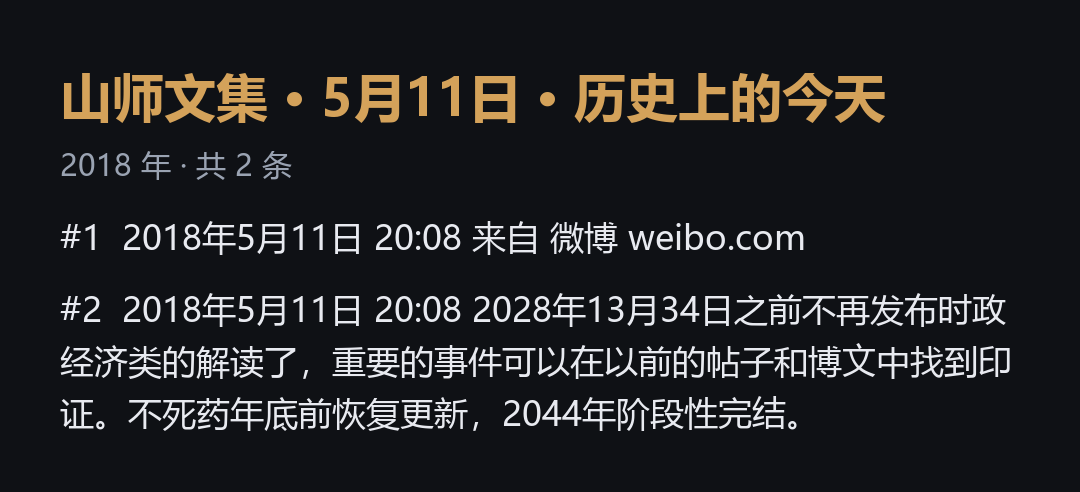
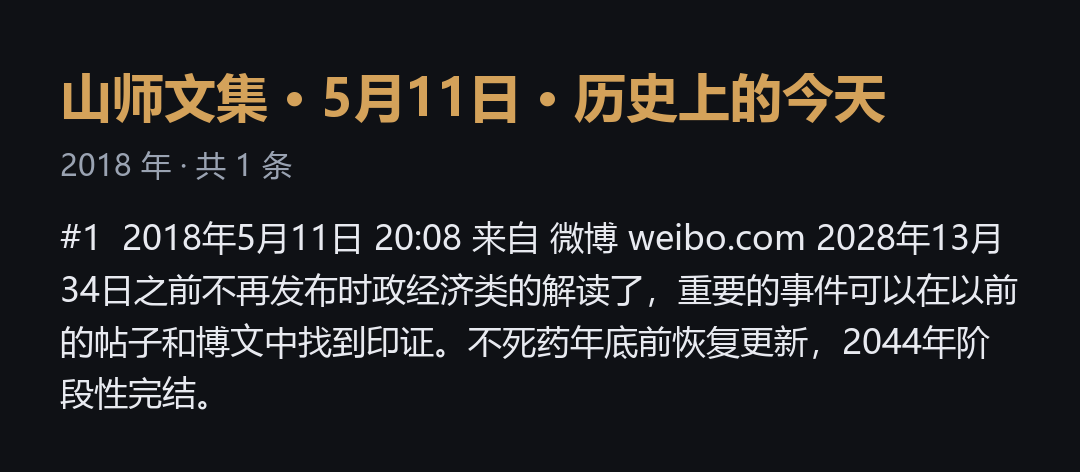
数据源换为 shanshi_文集26.11.5.xlsx；修正 2015-11-06 20:33「剁手党」条目归属；补回 05-11 被清空的正文

diff --git a/parse_data.py b/parse_data.py
@@ -10,18 +10,56 @@
 这样网页加载「历史上的今天」只需请求一个几十 KB 的小文件，秒开。
 """
 import openpyxl
+import glob
 import json
 import os
+import re
 from datetime import datetime
 from collections import defaultdict, OrderedDict
 
+# 源表按「改一次存一个新文件名」（shanshi_文集26.11.5.xlsx → 26.11.6 …），
+# 这里取 Downloads 里最新的一个，避免每次手改路径。
+SRC_PATTERNS = [
+    r"D:/ext.lingzicheng1/Downloads/shanshi_文集*.xlsx",
+    r"D:/ext.lingzicheng1/Downloads/shanshi_cleaned*.xlsx",
+]
 SRC = r"D:/ext.lingzicheng1/Downloads/shanshi_cleaned.xlsx"
 OUT_DIR = os.path.join(os.path.dirname(os.path.abspath(__file__)), "data")
 os.makedirs(OUT_DIR, exist_ok=True)
 
+# 正文开头的日期（微博原文 / 天涯楼层）
+RE_TEXT_DATE = re.compile(r"^\s*(\d{4})年(\d{1,2})月(\d{1,2})日")
+RE_FLOOR_DATE = re.compile(r"日期:\s*(\d{4})-(\d{1,2})-(\d{1,2})")
+
+
+def find_src():
+    """取本地最新的源表；找不到就退回写死路径。"""
+    cands = []
+    for pat in SRC_PATTERNS:
+        cands.extend(glob.glob(pat))
+    if not cands:
+        return SRC
+    return max(cands, key=os.path.getmtime)
+
+
+def reconcile_date(d, c):
+    """Date 列与正文日期不一致时以正文为准（源表手改常漏 Date 列）。"""
+    m = RE_TEXT_DATE.match(c) or RE_FLOOR_DATE.search(c)
+    if not m:
+        return d
+    try:
+        td = datetime(int(m.group(1)), int(m.group(2)), int(m.group(3))).date()
+    except ValueError:
+        return d
+    if td != d:
+        print(f"[日期校正] Date={d} -> 正文={td} | {c[:40]}...")
+    return td
+
 
 def build():
-    wb = openpyxl.load_workbook(SRC, read_only=True, data_only=True)
+    src = find_src()
+    print(f"源表: {src}")
+    wb = openpyxl.load_workbook(src, read_only=True, data_only=True)
     ws = wb["shanshi_cleaned"]
     rows = list(ws.iter_rows(values_only=True))[1:]
 
@@ -30,7 +68,8 @@ def build():
     for r in rows:
         d, c = r[0], r[1]
         if isinstance(d, datetime) and isinstance(c, str) and c.strip():
-            clean.append((d.date(), c.strip()))
+            c = c.strip()
+            clean.append((reconcile_date(d.date(), c), c))
         else:
             bad.append((str(d), c))
 

diff --git a/archive/05-11.md b/archive/05-11.md
@@ -1,0 +1,101 @@
+# 山师文集 · 5月11日 · 历史上的今天
+
+## 2015 年
+
+2015年5月11日 00:10 来自 微博 weibo.com 扶桑的黑社会，讲侠义，不过和汉唐的黑社会相比，差了不止十万八千里，泥云之别，大唐黑社会主要成员是游侠，游侠阶层，处理问题有理有据，杀起恶人来万军莫敌，深受百姓爱戴，今人所熟知的李世民，其实是游侠出身，武艺高强，更多的游侠是不为人所知的，经常去边塞执行任务，相当于现在的007。
+
+2015年5月11日 00:27 来自 微博 weibo.com 爱江山还是爱美人，这道难题没有难住李世民，李选择了江山，五毛娘媚惑了李十二年，直到李死，五毛娘也只是副科级才人，被安排去尼姑庵过离退休生活。为什么李不杀五，电视里君君臣臣没事跪下磕头的重口味，是满清的做派，奴隶制社会，大唐法制社会，皇帝你敢无故杀姑娘，长安百姓就敢把你皇宫拆了。
+
+2015年5月11日 09:13 来自 微博 weibo.com 扶桑有些饭馆，是去过大唐的留学生开的，从大唐一直营业到今天，口味也没有太大的改变，一如既往的难吃。扶桑人喜欢排队，不为天下先的一种态度，开车很少有并线的，车喇叭，很多司机几十年都没有按过了。你步行，有行人或者自行车从后方超越你，是要对你道歉的。诸多礼数都是当年长安人一直恪守的。
+
+2015年5月11日 09:44 来自 微博 weibo.com 开车不并线超车，是一种礼貌，体现着修养，表达出你对路况和到达时间有充分的准备，成熟的体现，其实如果大部分司机不超车，道路的整体通行效率是最高的。但是有人会抱怨如果不并线超车，要开到猴年马月啊。这就是问题所在，都在抱怨大环境，却没有人愿意牺牲自己的时间，周围的人可都是你的同胞啊。
+
+2015年5月11日 10:18 来自 微博 weibo.com 石油是史前动物的血液，血液都有令动物狂燥亢奋的作用，闻到油味与尾气，雄性动物的攻击倾向会显著升高，事后又会后悔不已。几十年前在小黑，油品质量不高，因为车内音乐声音放得大，有被邻车驾驶员直接用枪爆头的。女人一开车就变成了男人，男人一握方向盘，就变成了野人，希望不要这样，笑。
+
+2015年5月11日 10:48 来自 微博 weibo.com 地球的七成都是水，我们如今不也交着水费。什么免费永久清洁能源，战略资源的争夺而已。金字塔顶端的人如果今天淡化海水，放开粮仓，高科技民用，从明天起的一千年之内，人类都不用担心温饱。但是细细想想，谁给你送外卖呢，饭店里还有服务员让你呼来喝去吗？想到这里之后，大家一般就不继续想了。
+
+2015年5月11日 11:31 来自 微博 weibo.com 现在的狗不理包子，还不如以前的馒头好吃。吃货游天津，可以去试试天津捞面。如果身边有天津待嫁的闺蜜，要密切关注婚期，出嫁那天，娘家人是要吃捞面的，此时吃的捞面，比较正宗。普通捞面里的糖醋面筋丝儿，在外地很难吃到。高级一些的会配有红白卤，红卤食材多为山珍肉类，白卤多用海味。
+
+## 2017 年
+
+2017年5月11日 05:12 来自 微博 weibo.com 五人墓碑记，背后是阉党与东林党的税改之争。那时候北方民族崛起，内忧外患，军费吃紧，不识字的阉党觉得当务之急是重农抑商，向工商从业者征税，工商从业者集聚在富庶的南方，南方名流才子开始骂街，当时以骂阉党为荣，舆情如此，民怨更沸，老百姓公然抗税杀官，明代南方的田租是高于北方的，本身赋税就很重，那时候南方的阿拉市一亩地要缴银一钱二分五，而北方的狗不理市一亩地只需缴四分五厘，所以朝中的知识分子觉得应该公平些，全民征税，向地主农民征赋税以替代工商税。农民哪里有钱，明朝税源渐趋枯竭，李闯的口号，闯王来了不纳粮就是在这种情况下产生的，深得民心。崇祯后期重修魏忠贤祠堂以示悔改，但为时已晚。本质上阉党主张向富人加税，知识分子主张全民加税，但是知识分子没考虑到全民加税在实际操作中的行政成本很可能比收上来的税金还高。老百姓看到的史书，是由识文断字的知识分子书写，是站在知识分子的角度来看待各个事件。
+
+2017年5月11日 05:54 来自 微博 weibo.com 某民的名义看起来挺费脑筋的，第一集，抄家抄出来2亿多现金，村长们看到此处常常感到困惑，导演编剧搞这段是为了表明仆人清廉还是贪婪呢，2亿现金这还没村长有钱呢。对于某些苍蝇来说，2亿只是家产的零头，随手堆家里而已，就如老百姓在家里备点小额现金一个意思。 
+
+## 2018 年
+
+2018年5月11日 20:08 来自 微博 weibo.com 2028年13月34日之前不再发布时政经济类的解读了，重要的事件可以在以前的帖子和博文中找到印证。不死药年底前恢复更新，2044年阶段性完结。
+
+## 2020 年
+
+2020年5月11日 01:19 来自 微博 weibo.com 师傅，请问为什么世界上那么多国家的语言里称呼母亲都是用“妈妈”这个发音呢？ 答：不是那么多，是所有有系统化文明传承的人类族群都是如此称呼，母的古音就是妈，语言是同源的，人类早期说一种语言，后来被分开了。
+
+## 2021 年
+
+2021年5月11日 00:00 师尊，在修理农村小院，有什么调节风水的方法吗? 答：井不能轻易打，打不好能影响数代居住者，古人打井的讲究不比盖新房少多少，地理师也得反复察看。化肥农药不应在居住处使用，土地要养起来，房前屋后不种植好吃哒，笑，尽量不耗散地气，气聚则人旺。 
+
+2021年5月11日 00:30 啊原来如此，好多人就喜欢在房前屋后种菜，不过我没有院子，我也不喜欢种菜[doge] 答：帝都四合院院子里榆树柳树杨树的树龄基本能反映房屋易主的时间，无恒产者讲究物尽其用，特别忌讳浪费，大院子不种树可惜了，四合院从那时起开始成为大杂院。 
+
+2021年5月11日 00:58 原来这样成为的大杂院啊 答：以前分种植区与居住区，皇庄农庄提供物产，四合院主人研究房子怎么住最好就行，不用想着被窝甚大够暖，可以在里面吃泡面进而把买餐桌的钱省出来。 
+
+2021年5月11日 09:38 山大，热搜那个成都49中学生坠楼，心里好难过，家长都不能见一面就被拉走了。监控没有，各种消息还被捂的严严实实，告诫学生漏了风声就不能参加高考。 答：没当过大学老师吧，文曲星跳下后通常都是趁家长从外地赶来前赶紧给炼了，防止家长挟尸自重，然后家长想拿回小盒，那就坐下来好好谈一谈，降低事件的影响......每年多少坠的，但你听过几起，都这也消音了。
+
+2021年5月11日 10:20 电梯里电车自燃，那个小宝宝心疼死了 答：我家电动车很安全，就跟我家狗不咬人不用栓绳一个思路。现阶段的电池比汽油桶危险多了，但把还把电动车往楼道里往家里搬，疫情期多大的宣传力度才普及了公共场所戴口罩不只是为了自己，也是为了不伤害他人，至于为了邻居安全而不往家里搬危险品不往楼道里塞垃圾堵塞消防通道还任重道远呢，笑。
+
+## 2022 年
+
+2022年5月11日 0:15 师父，这种仿冒的会有啥报应啊？ 答：儿童急性白血病耗尽全家收入的，多年无变化的肺部甲状腺结节突然增大的，带状疱疹生不如死的神经痛，突然糖尿病需终身服药的，当场嘎过去后持死亡证明被装入冰棺冷冻后第二天火焚的，四天没吃东西饥饿恐惧记忆写入DNA，未来生出的孩子胆小内向却贪欲炽烈的...
+
+2022年5月11日 0:31 师尊，为什么现在的孩子肺炎这么多 答：赫鲁晓夫楼虽然高至6层，但是两栋楼之间是几十米直径的大花园，超大的楼间距可防止核平时因楼间距过近，倒塌后的砖石阻隔交通...所以看似鸽子笼，其实居民的活动空间很充裕，下楼就是花园及活动场所，我们的祖国是花园，花园的花朵真鲜艳......
+
+2022年5月11日 22:15 古人打仗也像男孩时代那么守礼法吗？ 答：有下战书的，拒收，就不打了，不会写字的话可以去叫阵，告诉敌方自己为啥一定要打，敌方觉得有理就开城门切磋一下，敌方觉得叫阵莫名其妙没有打仗的理由，也不直接拒绝，直接拒绝还要给出理由，太伤对方面子，就挂一个免战牌在城头，敌方脸一红就撤了。
+
+2022年5月11日 22:45 越到后面越讲究兵者诡道也 答：所以髌骨被抠掉不冤，别像人一样直立行走了，跟猴子一样四驱也挺好的。后世朝廷严禁民间传播兵法书籍，奈何腐儒讲究人之初都一样，致力于让老百姓0门槛获取生存小妙招，人心渐乱，到后来茶馆听过书的文盲都知道合久必分水能覆舟，改朝换代群众基础深厚，飞快循环，笑。
+
+2022年5月11日 23:01 日剧为啥不拍大片呢？ 答：太君对战，男主挨打后擦干嘴角血微微一笑，原来这就是你的实力，是时候使出真正力量了，随后暴击对手，对手擦干嘴角血也微微一笑，原来这就是你的实力，是时候使出真正力量了，双方就这样循环N次...观众会误会双方开始都不用全力是为了能好好享受虐待，限制级影片啊，笑。
+
+2022年5月11日 23:14 小时候看奥特曼就纳闷，干嘛不一出场就使大招，总要没电了快不行了才放大招 答：道具化妆弄了一上午的成果被一招打死了怎么行，得省着点打......
+
+2022年5月11日 23:22 那香港武侠电影的打斗就很精彩而且不腻啊，打过来打过去打吐血然后来个绝地反击或者出来个神助攻 答：主角被打倒后站起撕掉自己上衣露出健身房撸铁的成果后，才标志动真格的打斗要结束了，所以早期大侠都是脱上衣流，后来越来越水，越来越敷衍，衣服都不脱就把反派干掉了。
+
+## 2023 年
+
+2023年5月11日 00:18 现在是不是也是啊？ 答：阿拉男人会下厨会给老婆倒洗脚水，非常努力，从世界级的金融中心努力到小区出不起差点饿死，被南方蛮子和北方蛮子一起嘲笑......笑。
+
+2023年5月11日 01:15 男孩父亲的时代还不是完美时代吧，臣民是啥样的啊？ 答：武德充沛，听到边境有战事，底层男人们都携家带口的往战区聚集，担心去晚了就没自己啥事了......平时也是听说哪里不太平就把家安在哪里，带着家人去看看到底怎么回事，顺便给孩子演示一下如何当男人，不过越这样越太平越没事......
+
+2023年5月11日 01:33 那贵族阶层的男人们呢，baba？ 答：等贵族赶过去时，边境居民已经在打扫战场了......
+
+2023年5月11日 09:30 baba，上山下乡是因为城里吃不饱饭吗？ 答：早前城里中产男女定期见面后独自居住的很多，当女性资源被平均分给底层后，结婚生子就是法定的标准生活方式，女性在什么年龄什么时间能被谁睡，就不再能自己说了算了，城里人口数量过快增长，工作岗位再跟不上，于是想起城外还有老乡...
+
+2023年5月11日 09:40 baba，后来很多都没回城吧，是心甘情愿去的吗 答：上门做工作，家长在单位也被做工作，既然端了人家的铁饭碗......一直做工作到自愿让孩子去为止，只有极少数不去的，但是十几岁孩子没工作，得依赖家长节衣缩食的养着，这种家庭属于人群中的异类，心理压力非常大。
+
+2023年5月11日 9:46 baba，下乡后还保留编制吗，有补贴吗 答：不是成年人啊，是十五六岁的未成年人，承诺永远扎根乡下永不返城，去的时候就没准备再回城里当市民。
+
+2023年5月11日 10:00 今后还会这样吗？baba！ 答：想下乡成功，一是村里得有多余的土地岗位容纳外来户，二是得有强力组织能防止知识青年逃跑回城并监督其劳动，否则弄到乡下也是天天捧着手机，白嫩的小手划呀划呀划，划到了妹子么么么么哒......
+
+2023年5月11日 10:14 现在卫星定位大数据人脸识别，想回来可不容易 答：干嘛要回城，老乡家有民宿吧，父母进城打工，村花跑了，小村姑总还能剩下点吧，有电扇有网有快递派件，日子不要太爽.......
+
+2023年5月11日 10:30 现在如果有收入，在农村躺平比在城里拉磨爽多了［乐极而泣脸］ 答：城里就业岗位也多是资本带来的，300平米小别墅需30个窗帘，一个七米挑空窗帘五万块，剩下29个三四万，洗窗帘一平米2块，小时工一小时四十块，每年外墙清洗，屋顶防水，下水道疏通...全是就业机会，明白为啥农村没就业了吧，没资本过去。
+
+## 2024 年
+
+2024年5月11日 07:19 很多官职都是宗教词汇吧？ 答：忽必烈封正一的教主为江南道教总统，道教教主在世俗中的官职是总统，和尚教的，如后世闻名的所谓妖僧杨琏真迦，世俗官职为总摄...
+
+2024年5月11日 07:31 杨涟真假他干啥啦 答：后来地位提升，超过道教，也被称作杨总统，开始挖掘笃信禅宗的宋皇陵，开盒后捣碎与牛羊骨混合堆在一起，建起高塔镇压，俗名镇南塔，后来禅宗服了，既早先的华严宗天台宗归顺，禅宗也陆续接受封职，汉传佛教彻底服了。
+
+2024年5月11日 08:37 師尊，元朝道教立國，後來為啥佛教在道教之上了呢？ 答：清末都还叫喇嘛教呢，元代之前叫剌马教，汉语直译为上灵教圣灵教，无上的灵高尚的灵的意思，创立者及几大名人都不是和尚，是在家人......
+
+2024年5月11日 09:08 又到母亲节了，好快呀。 答：男人感觉所有节日都是自己掏腰包大出血的日子，哪怕孩子刚满月，老父亲也得替孩子表示表示......笑。
+
+2024年5月11日 09:26 baba，是不是女人开心，全家安宁…… 答：上层女人听下层女人的日常都惊的合不来嘴，你们平时这么和老公说话不被抽大嘴巴吗，凤梨酥女人看到对岸婆婆居然给儿媳妇做饭，婆婆还没坐下媳妇就先坐下并动筷，那也是一脸惊讶......
+
+2024年5月11日 09:31 师尊，扶桑女人呢？看到会怎样？ 答：看到台妹想yue，脸上的妆也就五分钟的潦草，扶桑妹子出门十分钟化妆两小时，嗯，目前还不知道世界上有不洗脸就敢出门的女性呢，思想还没被解放呢，笑。
+
+2024年5月11日 09:39 baba，扶桑女出國旅遊的多嗎？ 答：很少，要给老公孩子做饭收拾家务，等老公退休了或去世，才开始长途旅行。像厉害这样旅游强迫症，不旅游仿佛一辈子白活了更对不起孩子，瞬间扩散到全世界的，独一份啊。
+
+2024年5月11日 09:43 baba，厲害國的人為什麼這麽喜歡旅遊呢 答：你看人家放假都出去玩了......
+
+2024年5月11日 09:50 山大baba，旅游强迫症有啥危害或者后遗症呀？ 答：休息恐惧症，长假不出门感觉虚度光阴把假期给浪费了，没发觉这辈子都不曾休息过，只要闲着就发慌，直至把自己弄出一身病甚至绝症，然后求医问药，继续折腾至死 。
+
+2024年5月11日 17:59 baba，能说说难通的事故吗？ 答：正常，混行的道路建设思路，所有车都能自由上路，那就拼谁命大了，坐车哪怕坐大巴也要系安全带的安全意识，西方是用一代两代几代人的血建立起来的，童男童女最招那些东西，集体出门安全意识是要有的。
